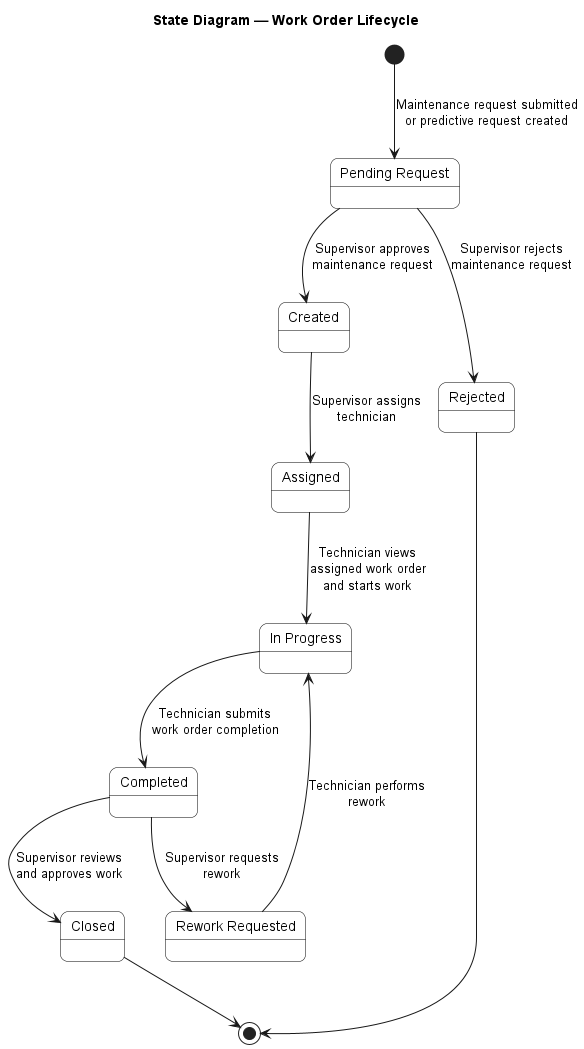
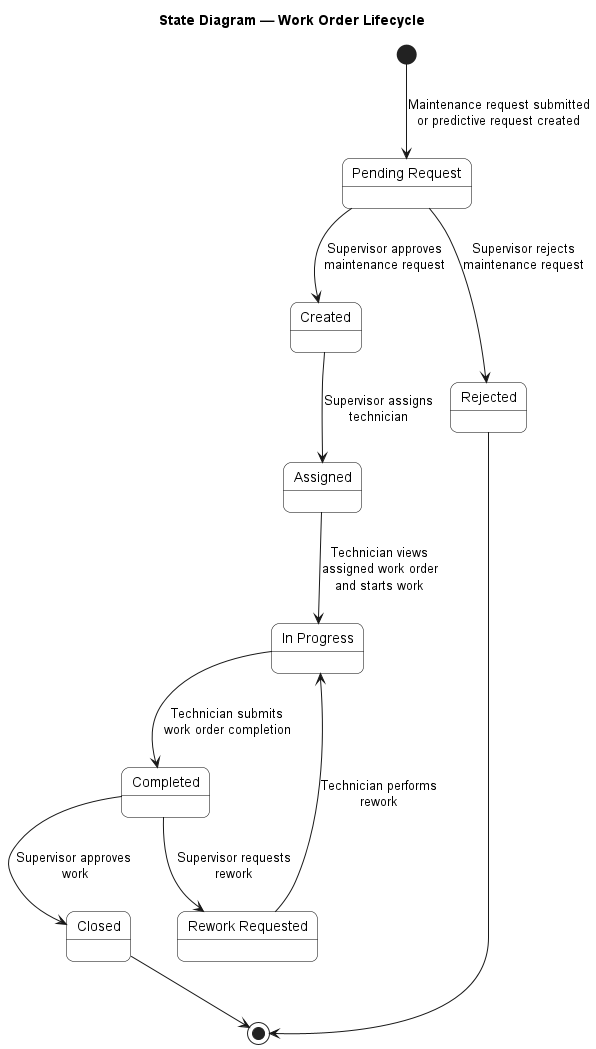
Update state diagram

diff --git a/docs/report.md b/docs/report.md
@@ -30,6 +30,7 @@ v2.0.0 — Final report version (May , 2026)
 ## 1.1 System Purpose
 
 The Maintenance Management System (MMS) is designed to help organizations carry out maintenance activities more efficiently. It allows technicians to submit maintenance requests, supervisors to assign and monitor tasks, and administrators to evaluate overall system performance.
+
 The system supports both manual requests and automatic alerts generated by IoT sensors. This helps reduce equipment downtime and ensures faster response to potential issues.
 
 ---
@@ -245,6 +246,7 @@ This use case plays a key role in maintaining system efficiency by ensuring that
 | **Includes** | None |
 
 This use case plays a key role in maintaining system efficiency by ensuring that tasks are completed, monitored,and evaluated effectively.
+
 ---
 
 # 4. Sequence Diagrams